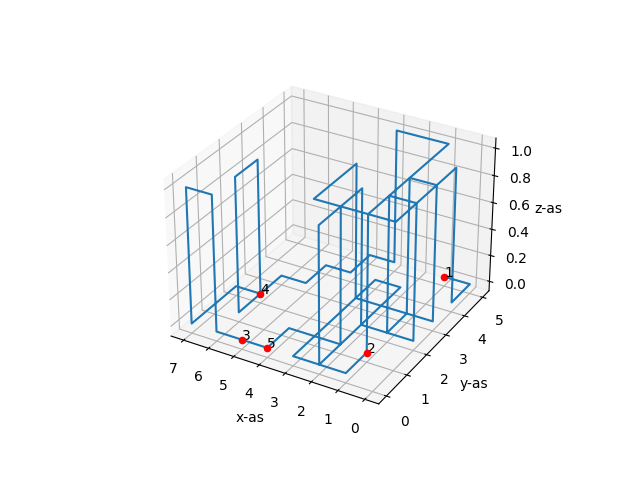
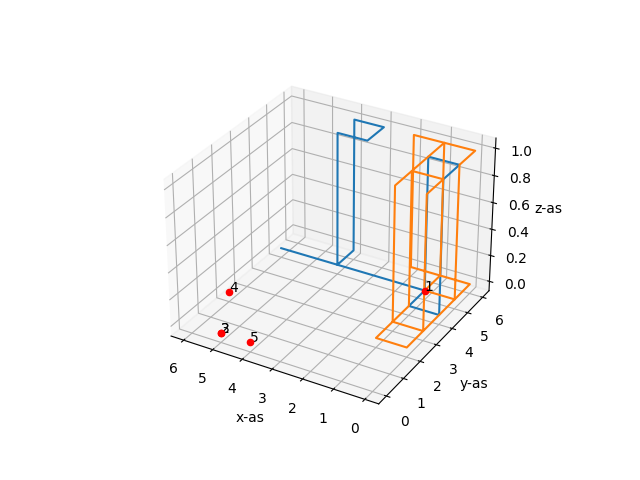
Have to take a break, bug in route deletion still there

diff --git a/code/algorithms/random.py b/code/algorithms/random.py
@@ -24,19 +24,10 @@ class Random():
 
             # Randomly walk over grid until current Crossing object is end_gate
             while not self.grid.net_is_finished():
-                # Wss niet nodig
-                # x, y, z = self.current_location[0], self.current_location[1], self.current_location[2]
-                # self.current_crossing = self.grid.grid[z][y][x]
-
-                # If no directions are available anymore, the random route has failed to reach the end gate
-                # if self.current_crossing.get_possible_directions() == []:
-                #     print(f'The random route got stuck (no options left to choose from)!')
-                #     self.dead_end = True
-                #     break
                 
                 if self.grid.get_directions() == []:
-                    print(f'Dead end')
                     self.dead_end = True
+                    print(self.grid.current_net.show_route_coordinates())
                     self.grid.delete_net(net, -1)
                     break
 
@@ -44,40 +35,10 @@ class Random():
                 self.directions = self.grid.get_directions()
                 random_direction = random.choice(self.directions)
 
-                # Remove selected direction from available directions
-                # Moet nog aangepast worden
-                # self.current_crossing.add_blockade(random_direction)
-
-                # # Mark current crossing as visited
-                # self.current_crossing.set_visited()
-
-                # # Add current crossing to routelist
-                # connection.routelist.append(self.current_crossing)
-
                 self.grid.add_to_net(random_direction)
 
                 # Count steps
                 self.steps += 1
-
-                # Continue kan eruit
-                # if random_direction == 'N':
-                #     self.current_location[1] -= 1
-                #     continue
-                # elif random_direction == 'E':
-                #     self.current_location[0] += 1
-                #     continue
-                # elif random_direction == 'S':
-                #     self.current_location[1] += 1
-                #     continue
-                # elif random_direction == 'W':
-                #     self.current_location[0] -= 1
-                #     continue
-                # elif random_direction == 'U':
-                #     self.current_location[2] += 1
-                #     continue
-                # elif random_direction == 'D':
-                #     self.current_location[2] -= 1
-                #     continue
             
             # Print statement is not applicable to routes with a dead end
             if self.dead_end:

diff --git a/main.py b/main.py
@@ -10,4 +10,16 @@ if __name__ == "__main__":
     # Testing random algorithm
     r = random.Random(grid)
 
-    vis.visualise("./data/example/our_output.csv")
+    # testing deleting routes
+    # for height in r.grid.grid:
+    #     for column in height:
+    #         for some_crossing in column:
+    #             directions = some_crossing.get_possible_directions()
+    #             amount_of_directions = len(directions)
+                
+    #             if amount_of_directions != 5:
+    #                 location = some_crossing.get_coordinates()
+    #                 if location[0] != 0 and location[0] != 7 and location[1] != 0 and location[1] != 6:
+    #                     print(location, amount_of_directions)
+
+    # vis.visualise("./data/example/our_output.csv")

diff --git a/code/classes/grid.py b/code/classes/grid.py
@@ -267,6 +267,7 @@ class Grid():
         # retrieve relevant crossing objects
         crossings = net.get_latest_crossings()
         last_crossing, second_last_crossing = crossings[0], crossings[1]
+        print(f"Crossings to be deleted {last_crossing.get_coordinates()}{second_last_crossing.get_coordinates()}")
 
         # retrieves the direction between the crossing objects
         last_crossing_coordinates = last_crossing.get_coordinates()
